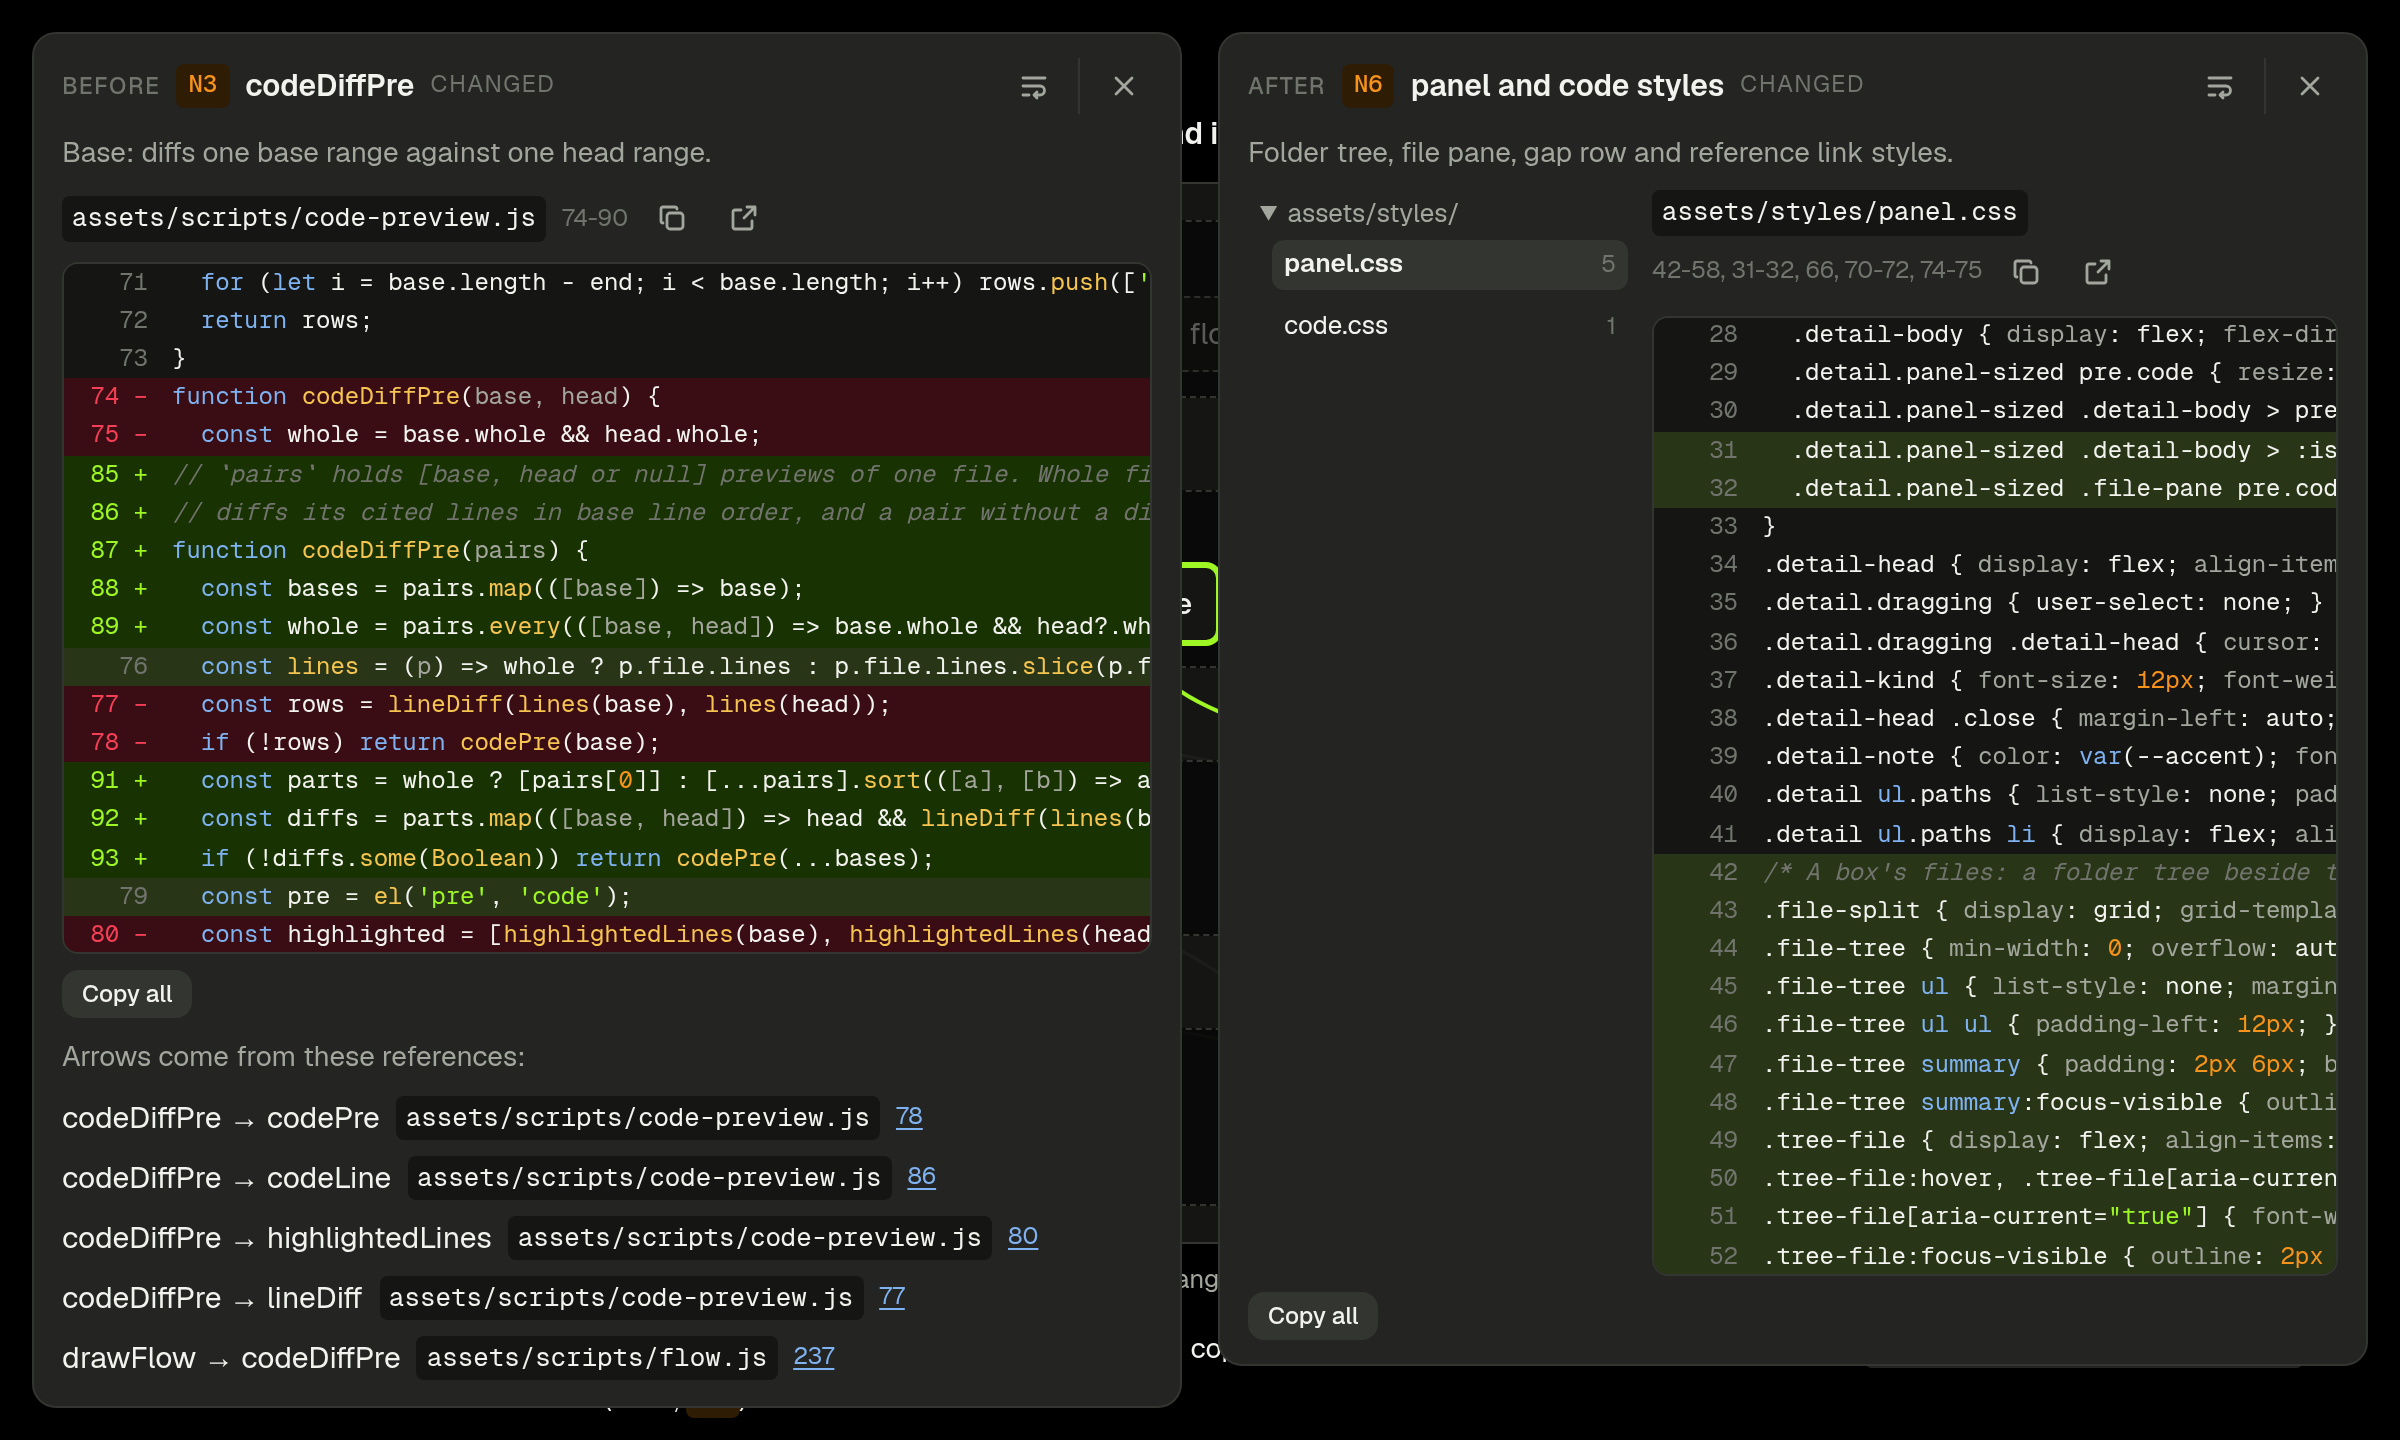
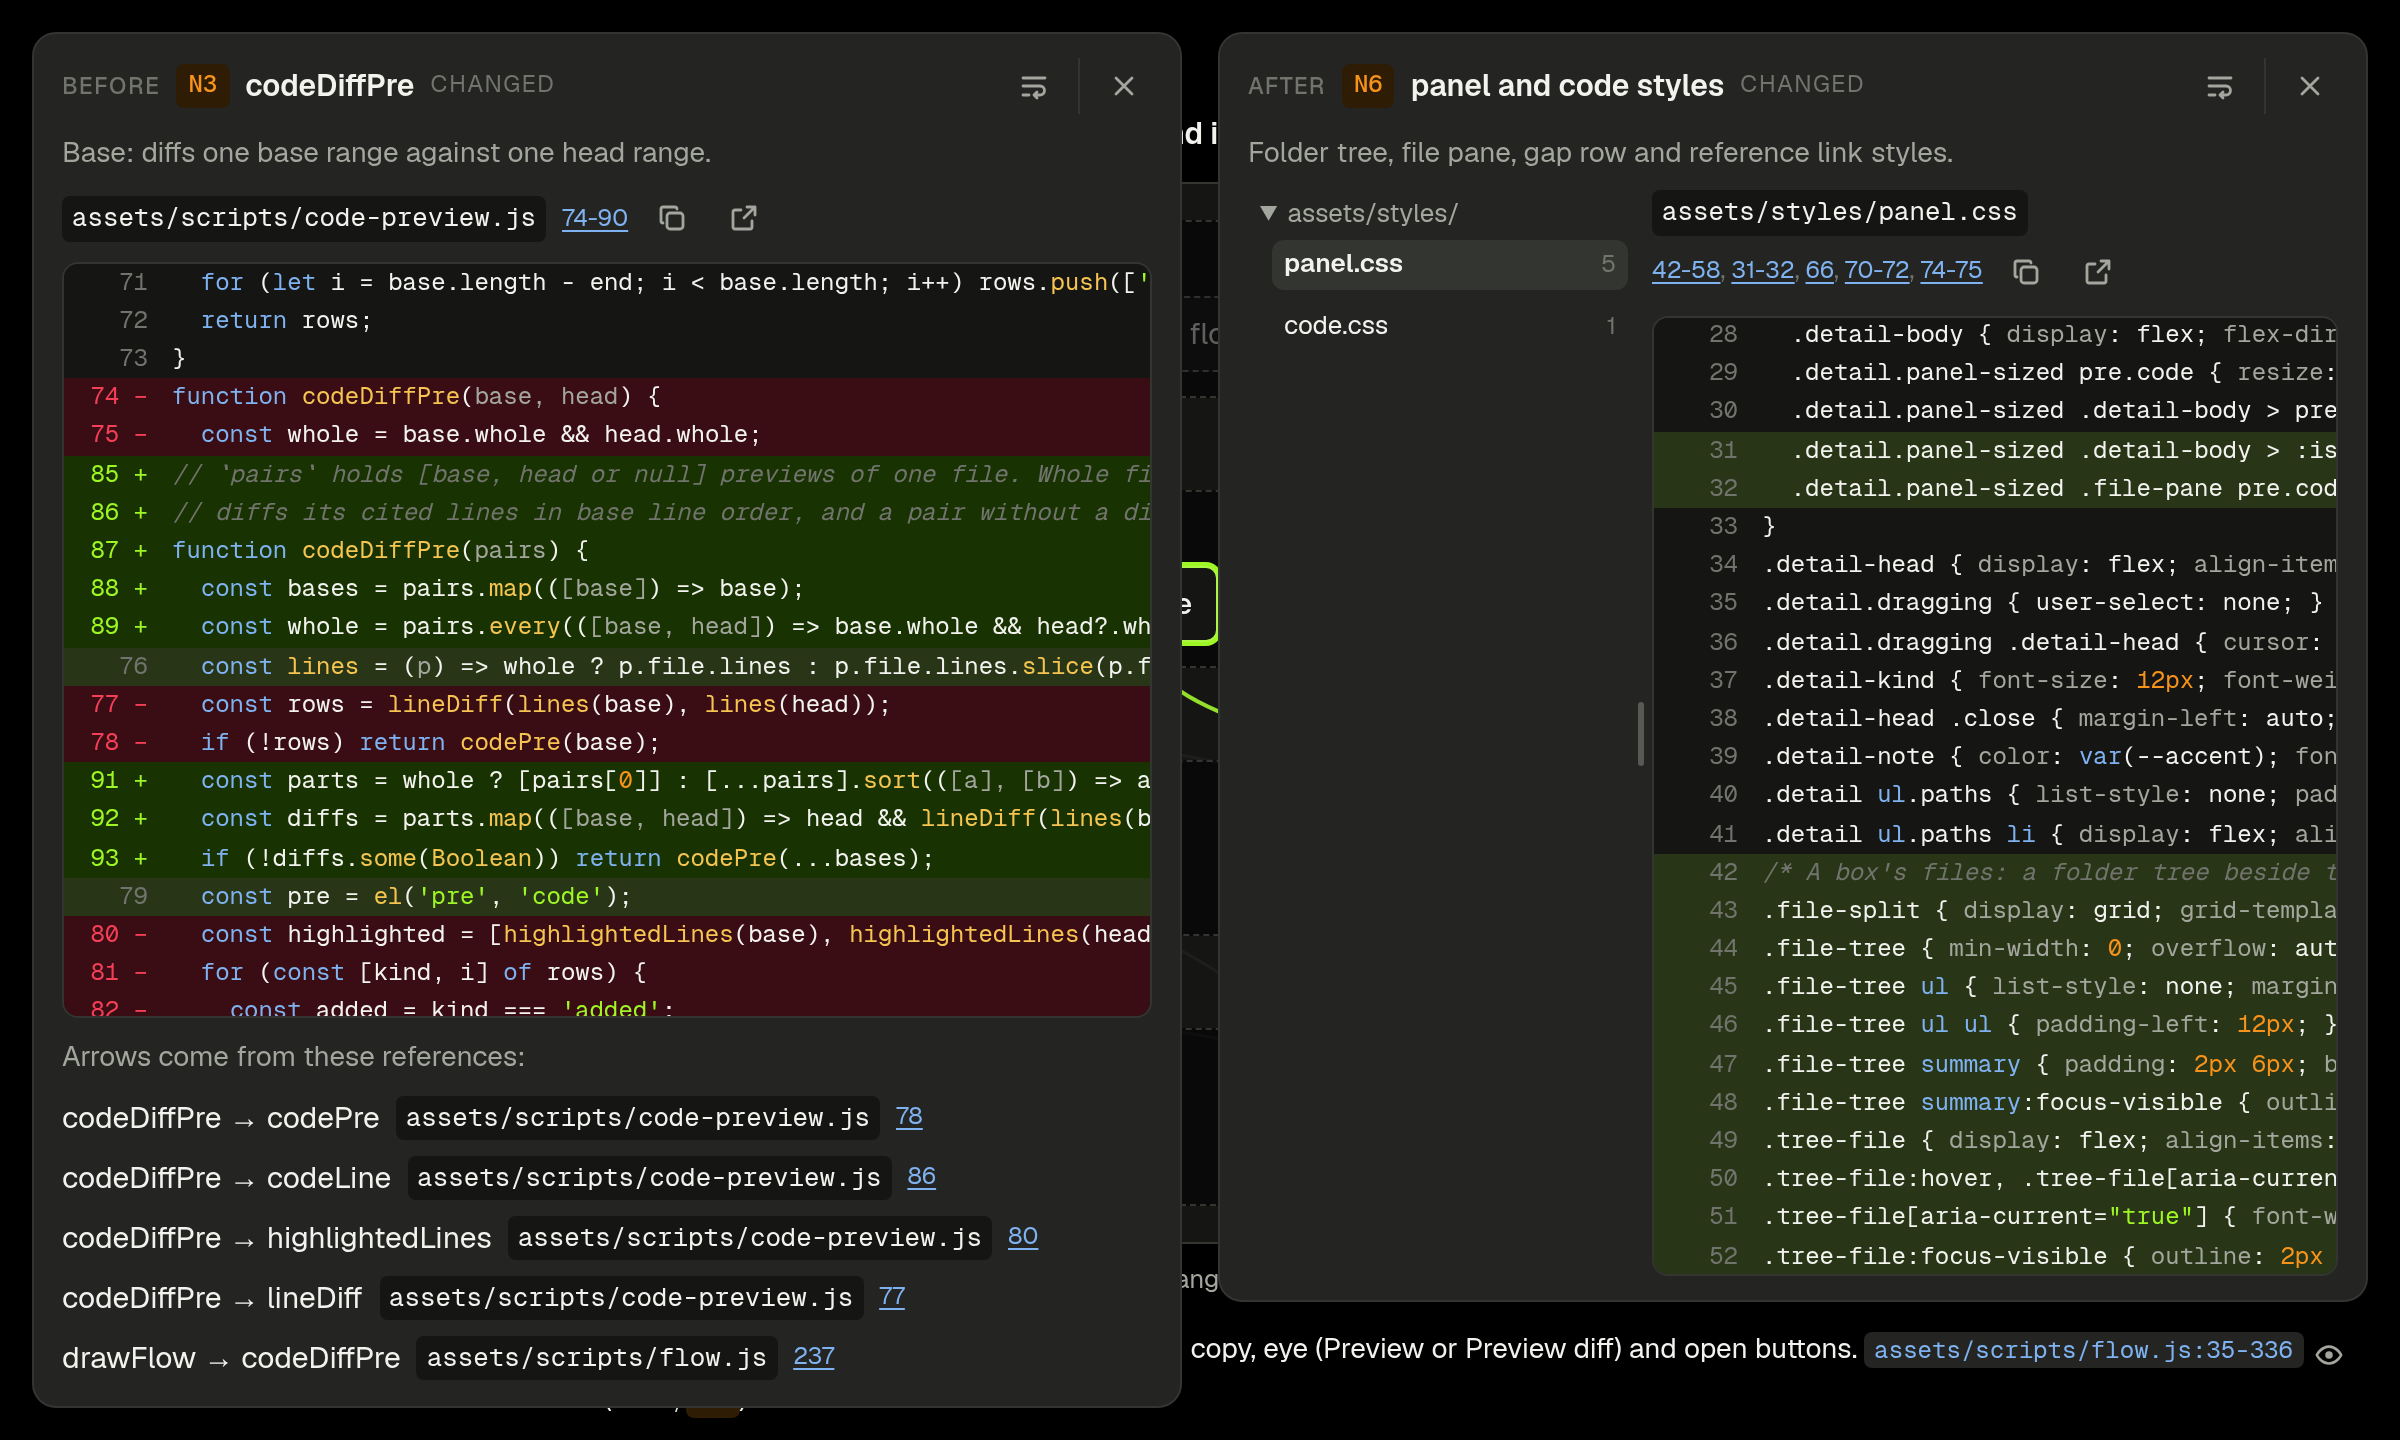
feat(page): resize the folder tree, link file ranges, drop Copy all (#87)
* feat(page): resize the folder tree in a box's panel

* feat(page): drop Copy all from a box's panel

* fix(page): keep the folder tree within its limits at every panel size

* feat(page): scroll the code to a range when its line numbers are clicked

* docs: retake panel screenshots without Copy all

* fix(page): open an arrow reference's code under it instead of replacing the file

Changed region(s): [[0.0, 0.6562, 0.5, 0.7188], [0.5, 0.9062, 1.0, 0.9688], [0.6875, 0.1875, 0.7188, 0.2188]]

diff --git a/assets/scripts/flow.js b/assets/scripts/flow.js
@@ -231,7 +231,8 @@ function drawFlow(arch, spec) {
         const bar = el('div', 'file-bar');
         bar.append(el('code', null, f));
         const ranges = own.map((p) => p.slice(f.length + 1)).filter(Boolean);
-        if (ranges.length) bar.append(el('span', 'ranges', ranges.join(', ')));
+        const rangeList = el('span', 'ranges');
+        if (ranges.length) bar.append(rangeList);
         const b = iconButton(COPY, 'Copy path');
         b.addEventListener('click', () => copy(f, b, CHECK));
         bar.append(b);
@@ -247,6 +248,20 @@ function drawFlow(arch, spec) {
             row.querySelector('.line-number').append(` ${kind === 'added' ? '+' : '−'}`);
           }
         }
+        // Each range scrolls the code to its first line. In a diff, base lines win over added head lines.
+        const rows = [...code.querySelectorAll('.code-line')];
+        const number = (row) => row.querySelector('.line-number')?.textContent.split(' ')[0];
+        ranges.forEach((range, i) => {
+          if (i) rangeList.append(', ');
+          const from = range.split('-')[0];
+          const row = rows.find((r) => !r.classList.contains('added') && number(r) === from) || rows.find((r) => number(r) === from);
+          if (!row) return rangeList.append(range);
+          const b = el('button', 'site', range);
+          b.type = 'button';
+          b.setAttribute('aria-label', `Scroll to line ${from}`);
+          b.addEventListener('click', () => scrollCode(code, row));
+          rangeList.append(b);
+        });
         pane.replaceChildren(bar, code);
         if (code.isConnected) scrollCode(code);
       };
@@ -302,18 +317,11 @@ function drawFlow(arch, spec) {
         tree.setAttribute('aria-label', 'Files');
         tree.append(branch(root));
         const split = el('div', 'file-split');
-        split.append(tree, pane);
+        split.append(tree, treeResize(split), pane);
         body.append(split);
         buttons[0].setAttribute('aria-current', 'true');
       }
       show(files.keys().next().value);
-      if (paths.length > 1) {
-        const all = el('button', 'btn', 'Copy all');
-        all.type = 'button';
-        all.style.alignSelf = 'flex-start';
-        all.addEventListener('click', () => copy(paths.join('\n'), all));
-        body.append(all);
-      }
     }
     // The references behind this box's arrows, for readers who cannot hover.
     const linked = edges.filter((e) => (e[0] === k || e[1] === k) && sites(e).length);
@@ -337,23 +345,24 @@ function drawFlow(arch, spec) {
             const site = `${path}:${line}`;
             const preview = codePreview(site, at);
             if (!preview) return ranges.append(line);
-            // A line shows its call in the pane, so the reader can check the arrow.
+            // A line opens its call under the reference, so the reader can check the arrow without
+            // losing the file above. Clicking it again closes it; another line of the row replaces it.
             const b = el('button', 'site', line);
             b.type = 'button';
             b.setAttribute('aria-label', `Show ${site}`);
+            b.setAttribute('aria-expanded', 'false');
             b.addEventListener('click', () => {
-              for (const other of buttons) other.removeAttribute('aria-current');
-              const bar = el('div', 'file-bar');
-              bar.append(el('code', null, site));
-              const c = iconButton(COPY, 'Copy path');
-              c.addEventListener('click', () => copy(site, c, CHECK));
-              bar.append(c);
-              const href = forgeHref(site, arch);
-              if (href) bar.append(openLink(href));
+              const open = li.querySelector(':scope > pre.code');
+              const same = open?.dataset.site === site;
+              open?.remove();
+              for (const other of li.querySelectorAll('.site')) other.setAttribute('aria-expanded', 'false');
+              if (same) return;
               const code = codePre(preview);
-              pane.replaceChildren(bar, code);
-              if (!pane.isConnected) body.append(pane);
+              code.dataset.site = site;
+              li.append(code);
+              b.setAttribute('aria-expanded', 'true');
               scrollCode(code);
+              code.scrollIntoView({ block: 'nearest' });
             });
             ranges.append(b);
           });

diff --git a/assets/scripts/panel-resize.js b/assets/scripts/panel-resize.js
@@ -161,3 +161,58 @@ function panelResize(panel) {
   window.addEventListener('resize', () => { place(); updateAria(); });
   return grips;
 }
+// The bar between a box's folder tree and its code: drag it or use the arrow keys to set the tree's
+// width, double-click for the default. Both panels share the remembered width.
+const treeWidthKey = 'overview-me:tree-width';
+try {
+  const width = Number(localStorage.getItem(treeWidthKey));
+  if (Number.isFinite(width) && width >= 120) document.documentElement.style.setProperty('--tree-width', `${width}px`);
+} catch {}
+function treeResize(split) {
+  const min = 120;
+  const grip = el('div', 'tree-resize');
+  grip.tabIndex = 0;
+  grip.setAttribute('role', 'separator');
+  grip.setAttribute('aria-orientation', 'vertical');
+  grip.setAttribute('aria-label', 'Resize folder tree');
+  grip.setAttribute('aria-valuemin', min);
+  const tree = () => split.querySelector('.file-tree');
+  // The code keeps at least 240px beside the 12px bar, as `.file-split` clamps it in panel.css.
+  const max = () => Math.max(min, split.clientWidth - 252);
+  const report = () => {
+    grip.setAttribute('aria-valuemax', max());
+    grip.setAttribute('aria-valuenow', Math.round(tree().getBoundingClientRect().width));
+  };
+  grip.addEventListener('focus', report);
+  const setWidth = (width) => {
+    const style = document.documentElement.style;
+    if (width === null) style.removeProperty('--tree-width');
+    else style.setProperty('--tree-width', `${Math.round(Math.min(Math.max(min, width), max()))}px`);
+    report();
+    try {
+      if (width === null) localStorage.removeItem(treeWidthKey);
+      else localStorage.setItem(treeWidthKey, String(Math.round(tree().getBoundingClientRect().width)));
+    } catch {}
+  };
+  let drag = null;
+  grip.addEventListener('pointerdown', (ev) => {
+    if (ev.button !== 0) return;
+    ev.preventDefault();
+    ev.stopPropagation();
+    grip.focus({ preventScroll: true });
+    grip.setPointerCapture(ev.pointerId);
+    drag = { id: ev.pointerId, x: ev.clientX, width: tree().getBoundingClientRect().width };
+  });
+  grip.addEventListener('pointermove', (ev) => {
+    if (drag?.id === ev.pointerId) setWidth(drag.width + ev.clientX - drag.x);
+  });
+  grip.addEventListener('lostpointercapture', () => { drag = null; });
+  grip.addEventListener('keydown', (ev) => {
+    const step = { ArrowLeft: -16, ArrowRight: 16 }[ev.key];
+    if (!step) return;
+    ev.preventDefault();
+    setWidth(tree().getBoundingClientRect().width + step);
+  });
+  grip.addEventListener('dblclick', () => setWidth(null));
+  return grip;
+}

diff --git a/assets/styles/panel.css b/assets/styles/panel.css
@@ -39,8 +39,14 @@
 .detail-note { color: var(--accent); font-size: 14px; }
 .detail ul.paths { list-style: none; padding: 0; gap: 6px; }
 .detail ul.paths li { display: flex; align-items: center; flex-wrap: wrap; gap: 8px; min-width: 0; }
+.detail ul.paths li > pre.code { flex-basis: 100%; width: 0; max-height: 240px; }
 /* A box's files: a folder tree beside the selected file's code. */
-.file-split { display: grid; grid-template-columns: 190px minmax(0, 1fr); grid-template-rows: minmax(0, 1fr); gap: 12px; flex-shrink: 0; }
+.file-split { display: grid; grid-template-columns: clamp(120px, var(--tree-width, 190px), calc(100% - 252px)) 12px minmax(0, 1fr); grid-template-rows: minmax(0, 1fr); flex-shrink: 0; }
+/* The bar between the tree and the code: drag it (or arrow keys) to set the tree's width. */
+.tree-resize { position: relative; cursor: ew-resize; touch-action: none; user-select: none; border-radius: var(--r); }
+.tree-resize::after { content: ''; position: absolute; left: 5px; top: calc(50% - 16px); width: 3px; height: 32px; border-radius: var(--r); background: var(--edge); }
+.tree-resize:hover::after, .tree-resize:focus-visible::after { background: var(--accent); }
+.tree-resize:focus-visible { outline: 2px solid var(--hl); outline-offset: -2px; }
 .file-tree { min-width: 0; overflow: auto; font-size: 13px; }
 .file-tree ul { list-style: none; margin: 0; padding: 0; }
 .file-tree ul ul { padding-left: 12px; }
@@ -51,7 +57,7 @@
 .tree-file[aria-current="true"] { font-weight: 600; }
 .tree-file:focus-visible { outline: 2px solid var(--hl); outline-offset: -2px; }
 .tree-file .count { margin-left: auto; color: var(--muted); font-size: 12px; font-weight: 400; }
-.file-pane { display: flex; flex-direction: column; gap: 8px; min-width: 0; min-height: 0; }
+.file-pane { display: flex; flex-direction: column; gap: 8px; min-width: 0; min-height: 0; flex-shrink: 0; }
 .file-bar { display: flex; align-items: center; flex-wrap: wrap; gap: 4px 8px; }
 .file-bar code { min-width: 0; overflow-wrap: anywhere; user-select: all; }
 :is(.file-bar, .detail ul.paths) .ranges { color: var(--muted); font-size: 12px; }
@@ -68,6 +74,7 @@
 @media (max-width: 640px) {
   .panel-resize { display: none; }
   .file-split { grid-template-columns: minmax(0, 1fr); grid-template-rows: auto; }
+  .tree-resize { display: none; }
   .file-tree { max-height: 30vh; }
   .detail, .detail.before, .detail:has(pre.code, .file-split) { left: 0; right: 0; bottom: 0; top: auto; width: auto; height: var(--sheet-height, 60vh); max-height: var(--sheet-height, 60vh); border-radius: var(--r) var(--r) 0 0; }
 }

diff --git a/assets/scripts/code-preview.js b/assets/scripts/code-preview.js
@@ -153,8 +153,7 @@ function showCode(text, preview, href, button, before) {
   close.focus({ preventScroll: true });
   scrollCode(pre);
 }
-function scrollCode(pre) {
-  const first = pre.querySelector('.cited');
+function scrollCode(pre, first = pre.querySelector('.cited')) {
   if (first) pre.scrollTop += first.getBoundingClientRect().top - pre.getBoundingClientRect().top
     - 3 * parseFloat(getComputedStyle(pre).lineHeight);
 }

diff --git a/docs/tutorial.md b/docs/tutorial.md
@@ -38,14 +38,14 @@ Click a box to open its panel. The Before flow opens a panel on the left; the Af
 
 The panel shows the box's note, then its files: a folder tree on the left and the selected file's code on the right, like a pull request's file list. Each file appears once in the tree, with the number of ranges the box cites in it. The first file opens with the panel; click another file to show it. A box with one file shows only the code.
 
-The code shows every cited range of the file in one view, scrolled to the cited lines, which are highlighted. A `⋯ N lines not embedded ⋯` row stands for the lines between two ranges. In a removed box the cited lines are red with a `−`; in an added box they are green with a `+`. Resize the panel to see more code. Above the code:
+The code shows every cited range of the file in one view, scrolled to the cited lines, which are highlighted. A `⋯ N lines not embedded ⋯` row stands for the lines between two ranges. In a removed box the cited lines are red with a `−`; in an added box they are green with a `+`. The ranges beside the path are links: click one to scroll the code to its first line. Resize the panel to see more code. Drag the bar between the tree and the code to make the tree wider or narrower, or focus the bar and use the arrow keys. Double-click the bar to go back to the default width. The page remembers the width for every box. Above the code:
 
-- The copy icon puts the file's path on your clipboard, ready for your editor's file search. **Copy all** under the files copies every `path:line`.
+- The copy icon puts the file's path on your clipboard, ready for your editor's file search.
 - The arrow icon opens the file's first range on GitHub at the commit the page describes.
 
 In a Before box changed by the branch, the code is a unified diff of the base code against the head code. Removed lines are red, with a `−` and the base line number. Added lines are green, with a `+` and the head line number. If the page holds both whole files, the diff covers the whole file and scrolls to the cited lines. Otherwise it compares only the cited lines. If the head code is missing or the diff is too large, the panel shows plain base code.
 
-Under the files, **Arrows come from these references** lists each arrow of the box with the files and lines of the imports or calls behind it. Click a line number to show that line in the code view.
+Under the files, **Arrows come from these references** lists each arrow of the box with the files and lines of the imports or calls behind it. Click a line number to open that line's code under the reference, without leaving the file above; click it again to close it.
 
 ![PR #85 in dark mode with both panels open: the diff of codeDiffPre in the Before panel, and the folder tree with panel.css in the After panel](images/before-after-panels.png)
 
